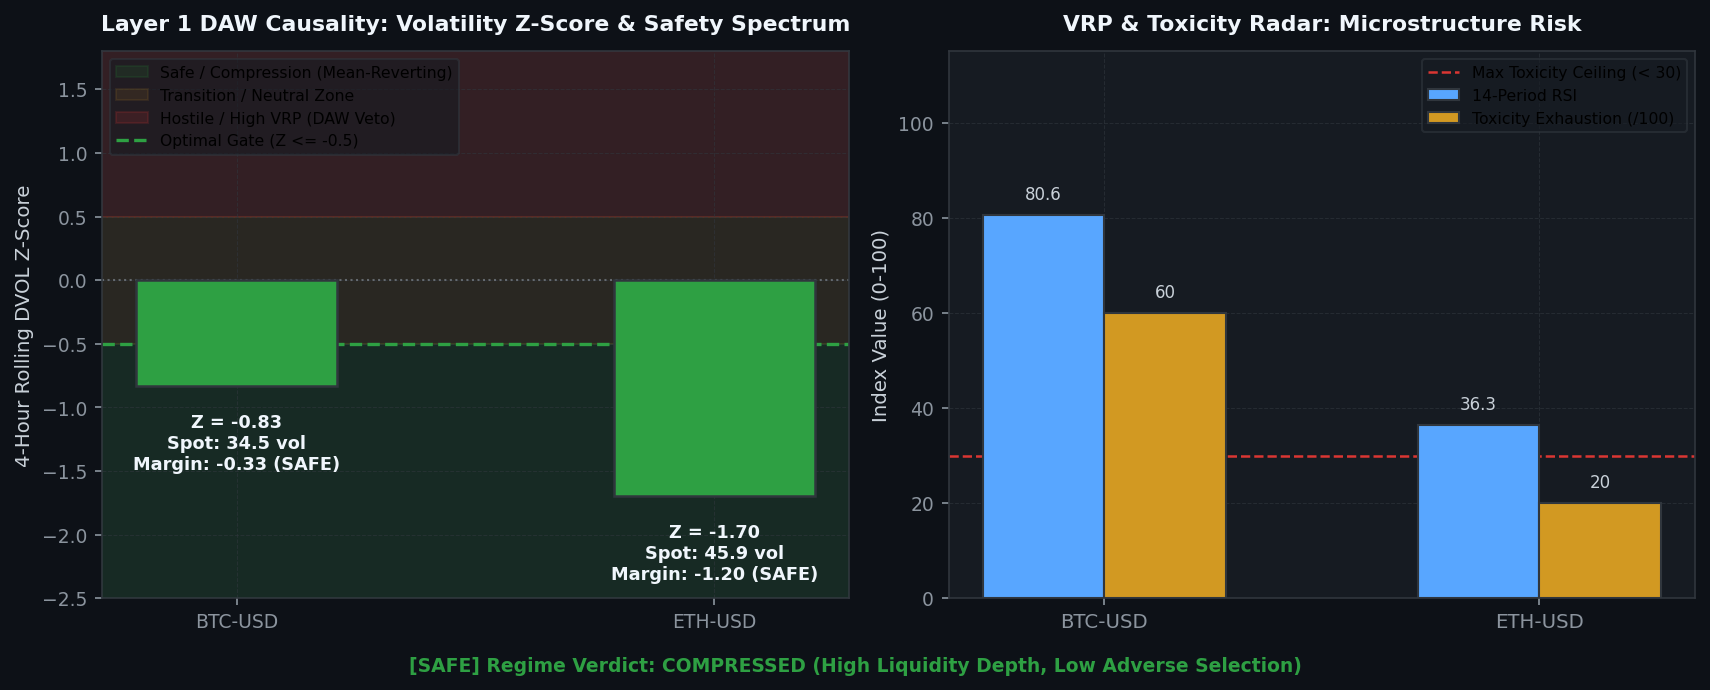
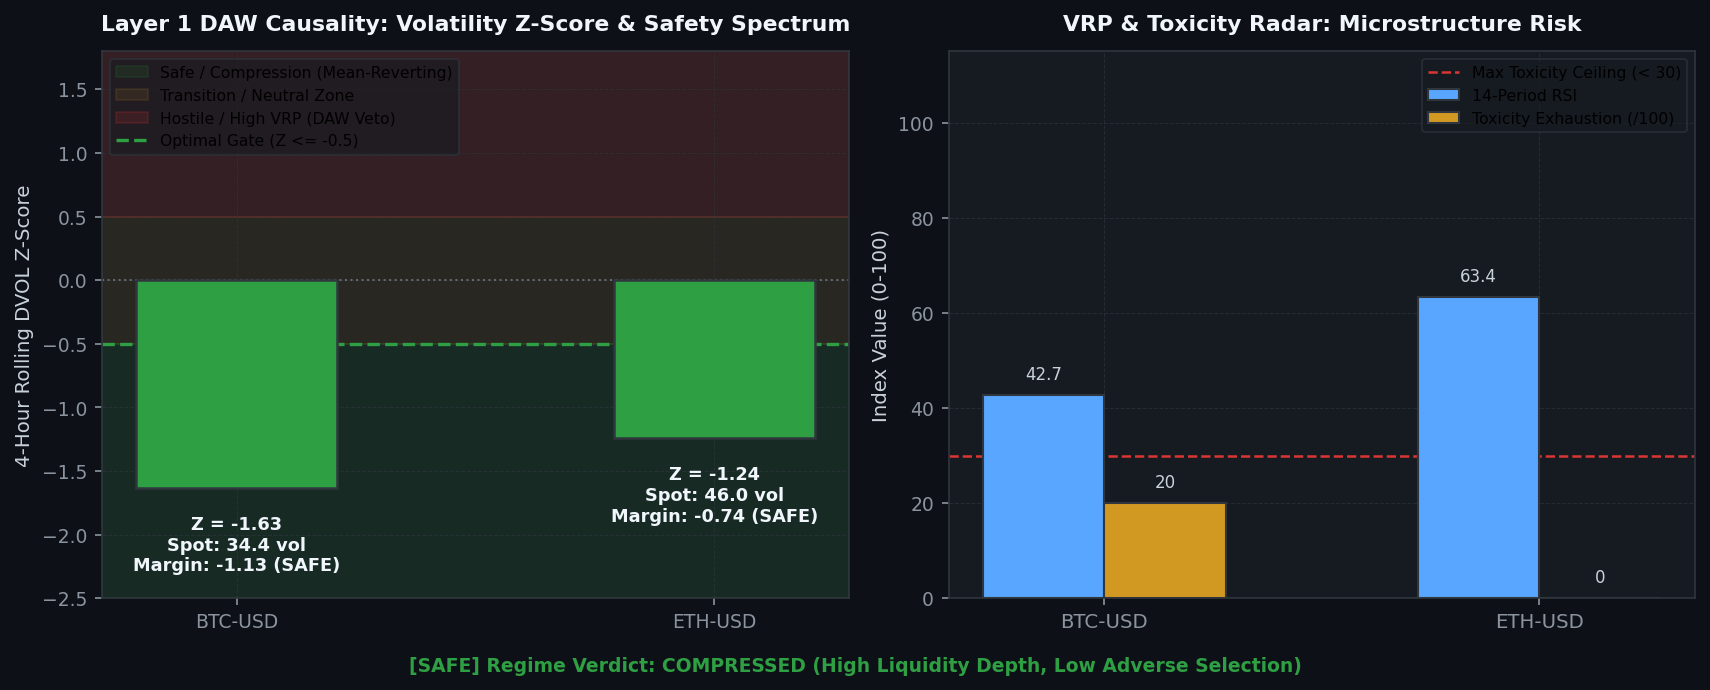
[coinbase] Hourly Status & Visual Intelligence Update: 2026-08-18 01:57:35

diff --git a/coinbase/data/hourly_status_report.md b/coinbase/data/hourly_status_report.md
@@ -3,7 +3,7 @@ layout: default
 ---
 
 # 🛡 Unified Trading System Hourly Status & Visual Intelligence
-> **Report Generated**: `2026-08-18 01:39:36 AM PDT (2026-08-18 08:39:36 UTC)`  
+> **Report Generated**: `2026-08-18 01:57:15 AM PDT (2026-08-18 08:57:15 UTC)`  
 > **System Health**: **🟡 DEGRADED / RESTRICTED** | **Win Rate**: `0.0%` | **Completed Trades**: `0`
 
 ---
@@ -12,13 +12,13 @@ Real-time Deribit implied volatility (DVOL) proxy tracking against mathematicall
 
 | Symbol | Proxy Oracle | Live Z-Score | Optimal Limit (YSP) | Safety Margin | Live VRP | Optimal VRP (YSP) | DAW Safety Verdict |
 | :--- | :--- | :--- | :--- | :--- | :--- | :--- | :--- |
-| `AVAX-USD` | DVOL_BTC | **-0.95** | **-0.50** | **-0.45** | **+12.40** | 5.0 | 🔴 DAW VETOED |
-| `ETH-USD` | DVOL_ETH | **-1.61** | **-0.50** | **-1.11** | **+23.84** | 5.0 | 🔴 DAW VETOED |
-| `ADA-USD` | DVOL_BTC | **-0.95** | **-0.50** | **-0.45** | **+12.40** | 5.0 | 🔴 DAW VETOED |
-| `DOGE-USD` | DVOL_BTC | **-0.95** | **-0.50** | **-0.45** | **+12.40** | 5.0 | 🔴 DAW VETOED |
-| `BTC-USD` | DVOL_BTC | **-0.95** | **-0.50** | **-0.45** | **+12.40** | 5.0 | 🔴 DAW VETOED |
-| `LINK-USD` | DVOL_BTC | **-0.95** | **-0.50** | **-0.45** | **+12.40** | 5.0 | 🔴 DAW VETOED |
-| `SOL-USD` | DVOL_BTC | **-0.95** | **-0.50** | **-0.45** | **+12.40** | 5.0 | 🔴 DAW VETOED |
+| `AVAX-USD` | DVOL_BTC | **-1.63** | **-0.50** | **-1.13** | **+12.46** | 5.0 | 🔴 DAW VETOED |
+| `ETH-USD` | DVOL_ETH | **-1.24** | **-0.50** | **-0.74** | **+24.06** | 5.0 | 🔴 DAW VETOED |
+| `ADA-USD` | DVOL_BTC | **-1.63** | **-0.50** | **-1.13** | **+12.46** | 5.0 | 🔴 DAW VETOED |
+| `DOGE-USD` | DVOL_BTC | **-1.63** | **-0.50** | **-1.13** | **+12.46** | 5.0 | 🔴 DAW VETOED |
+| `BTC-USD` | DVOL_BTC | **-1.63** | **-0.50** | **-1.13** | **+12.46** | 5.0 | 🔴 DAW VETOED |
+| `LINK-USD` | DVOL_BTC | **-1.63** | **-0.50** | **-1.13** | **+12.46** | 5.0 | 🔴 DAW VETOED |
+| `SOL-USD` | DVOL_BTC | **-1.63** | **-0.50** | **-1.13** | **+12.46** | 5.0 | 🔴 DAW VETOED |
 
 ![DVOL Market Regime](./images/dvol_regime_timeline.png)
 
@@ -48,12 +48,12 @@ We hereby certify that the mission-critical algorithmic data assets uploaded by 
 
 | Status | Data Asset | Freshness / State | Details / Timestamp |
 | :---: | :--- | :--- | :--- |
-| ✅ | **Go-List JSON** | Fresh (7.14h old) | 08-17 18:31 |
-| ✅ | **TimesFM Forecasts** | Fresh (1.63h old) | 08-18 00:02 |
-| ✅ | **Holding Times config** | Fresh (6.91h old) | 08-17 18:45 |
-| ✅ | **BTC DVOL Cache** | Fresh (0.00h old) | 08-18 01:39 |
-| ✅ | **ETH DVOL Cache** | Fresh (0.00h old) | 08-18 01:39 |
-| ✅ | **Live Trading Telemetry** | Fresh (0.00h old) | 08-18 01:39 |
+| ✅ | **Go-List JSON** | Fresh (7.44h old) | 08-17 18:31 |
+| ✅ | **TimesFM Forecasts** | Fresh (1.92h old) | 08-18 00:02 |
+| ✅ | **Holding Times config** | Fresh (7.21h old) | 08-17 18:45 |
+| ✅ | **BTC DVOL Cache** | Fresh (0.01h old) | 08-18 01:57 |
+| ✅ | **ETH DVOL Cache** | Fresh (0.01h old) | 08-18 01:57 |
+| ✅ | **Live Trading Telemetry** | Fresh (0.00h old) | 08-18 01:57 |
 
 <br>
 
@@ -96,14 +96,14 @@ Live balance sheet and open maker liquidity positions from Coinbase CDP.
 ## 4. 🤖 Foundation Model MLOps & Pipeline Orchestration
 Weekly Algorithmic Mega Cap selection, Zero-shot multi-step forward return forecasts, and VSTEF parameter grid search status.
 
-- **TimesFM Forecast DB**: 🟢 Updated 1.6h ago (2026-08-18 12:02 AM PDT)
+- **TimesFM Forecast DB**: 🟢 Updated 1.9h ago (2026-08-18 12:02 AM PDT)
 - **Last Weekly VSTEF Optimization**: `2026-08-17 06:44:25 PM PDT`
-- **Next Scheduled VSTEF Run**: `2026-08-23 07:00:00 PM PDT (Monday 02:00 UTC)` (Countdown: **137.3h (5d 17h 20m)**)
+- **Next Scheduled VSTEF Run**: `2026-08-23 07:00:00 PM PDT (Monday 02:00 UTC)` (Countdown: **137.0h (5d 17h 2m)**)
 - **Promoted Parameter Gates**: $Z_{DVOL} \le -0.5$ | Holding Horizon $= 12\text{h}$
 
 ### Algorithmic Mega Cap Selection
 - **Last Run (Confirmation)**: `Never`
-- **Next Scheduled Run**: `2026-08-23 06:00:00 PM PDT (Monday 01:00 UTC)` (Countdown: **136.3h (5d 16h 20m)**)
+- **Next Scheduled Run**: `2026-08-23 06:00:00 PM PDT (Monday 01:00 UTC)` (Countdown: **136.0h (5d 16h 2m)**)
 - **Selected Mega Cap Universe**: `Could not fetch active universe from EC2`
 
 ![TimesFM Forecast Matrix](./images/timesfm_forecast_matrix.png)
@@ -117,19 +117,19 @@ Visualizing the impact of the VSTEF (Volatility-Synchronized Stop-Tightening Exe
 ## 5. 🖥 Multi-Node Infrastructure & Watchdog Matrix
 ```text
 ================================================================================
-   🛡  SFGK FUNNEL GUARDIAN WATCHDOG (HFT ONLY) |  08:39:37 AM
-   CPU:  37.3%  |  MEM:   6.8% (14.4GB / 15.4GB Free)
+   🛡  SFGK FUNNEL GUARDIAN WATCHDOG (HFT ONLY) |  08:57:16 AM
+   CPU:  39.0%  |  MEM:   6.6% (14.4GB / 15.4GB Free)
 ================================================================================
 SERVICE              | PID      | STATUS          | RESTARTS | INFO
 --------------------------------------------------------------------------------
 L3 Consumer          | 3063468  | RUNNING         | -        | Continuous Websocket Feed
-Trader AVAX-USD      | 3135697  | COOL-DOWN       | 233      | Next run in 14.9s
-Trader ETH-USD       | 3135698  | COOL-DOWN       | 233      | Next run in 14.9s
-Trader ADA-USD       | 3135699  | COOL-DOWN       | 233      | Next run in 14.9s
-Trader DOGE-USD      | 3135700  | COOL-DOWN       | 233      | Next run in 14.9s
-Trader BTC-USD       | 3135701  | COOL-DOWN       | 233      | Next run in 14.9s
-Trader LINK-USD      | 3135702  | COOL-DOWN       | 233      | Next run in 14.9s
-Trader SOL-USD       | 3135703  | COOL-DOWN       | 233      | Next run in 14.9s
+Trader AVAX-USD      | 3151363  | COOL-DOWN       | 283      | Next run in 14.9s
+Trader ETH-USD       | 3151364  | COOL-DOWN       | 283      | Next run in 14.9s
+Trader ADA-USD       | 3151365  | COOL-DOWN       | 283      | Next run in 14.9s
+Trader DOGE-USD      | 3151366  | COOL-DOWN       | 283      | Next run in 14.9s
+Trader BTC-USD       | 3151367  | COOL-DOWN       | 283      | Next run in 14.9s
+Trader LINK-USD      | 3151368  | COOL-DOWN       | 283      | Next run in 14.9s
+Trader SOL-USD       | 3151369  | COOL-DOWN       | 283      | Next run in 14.9s
 ================================================================================
 ```
 
